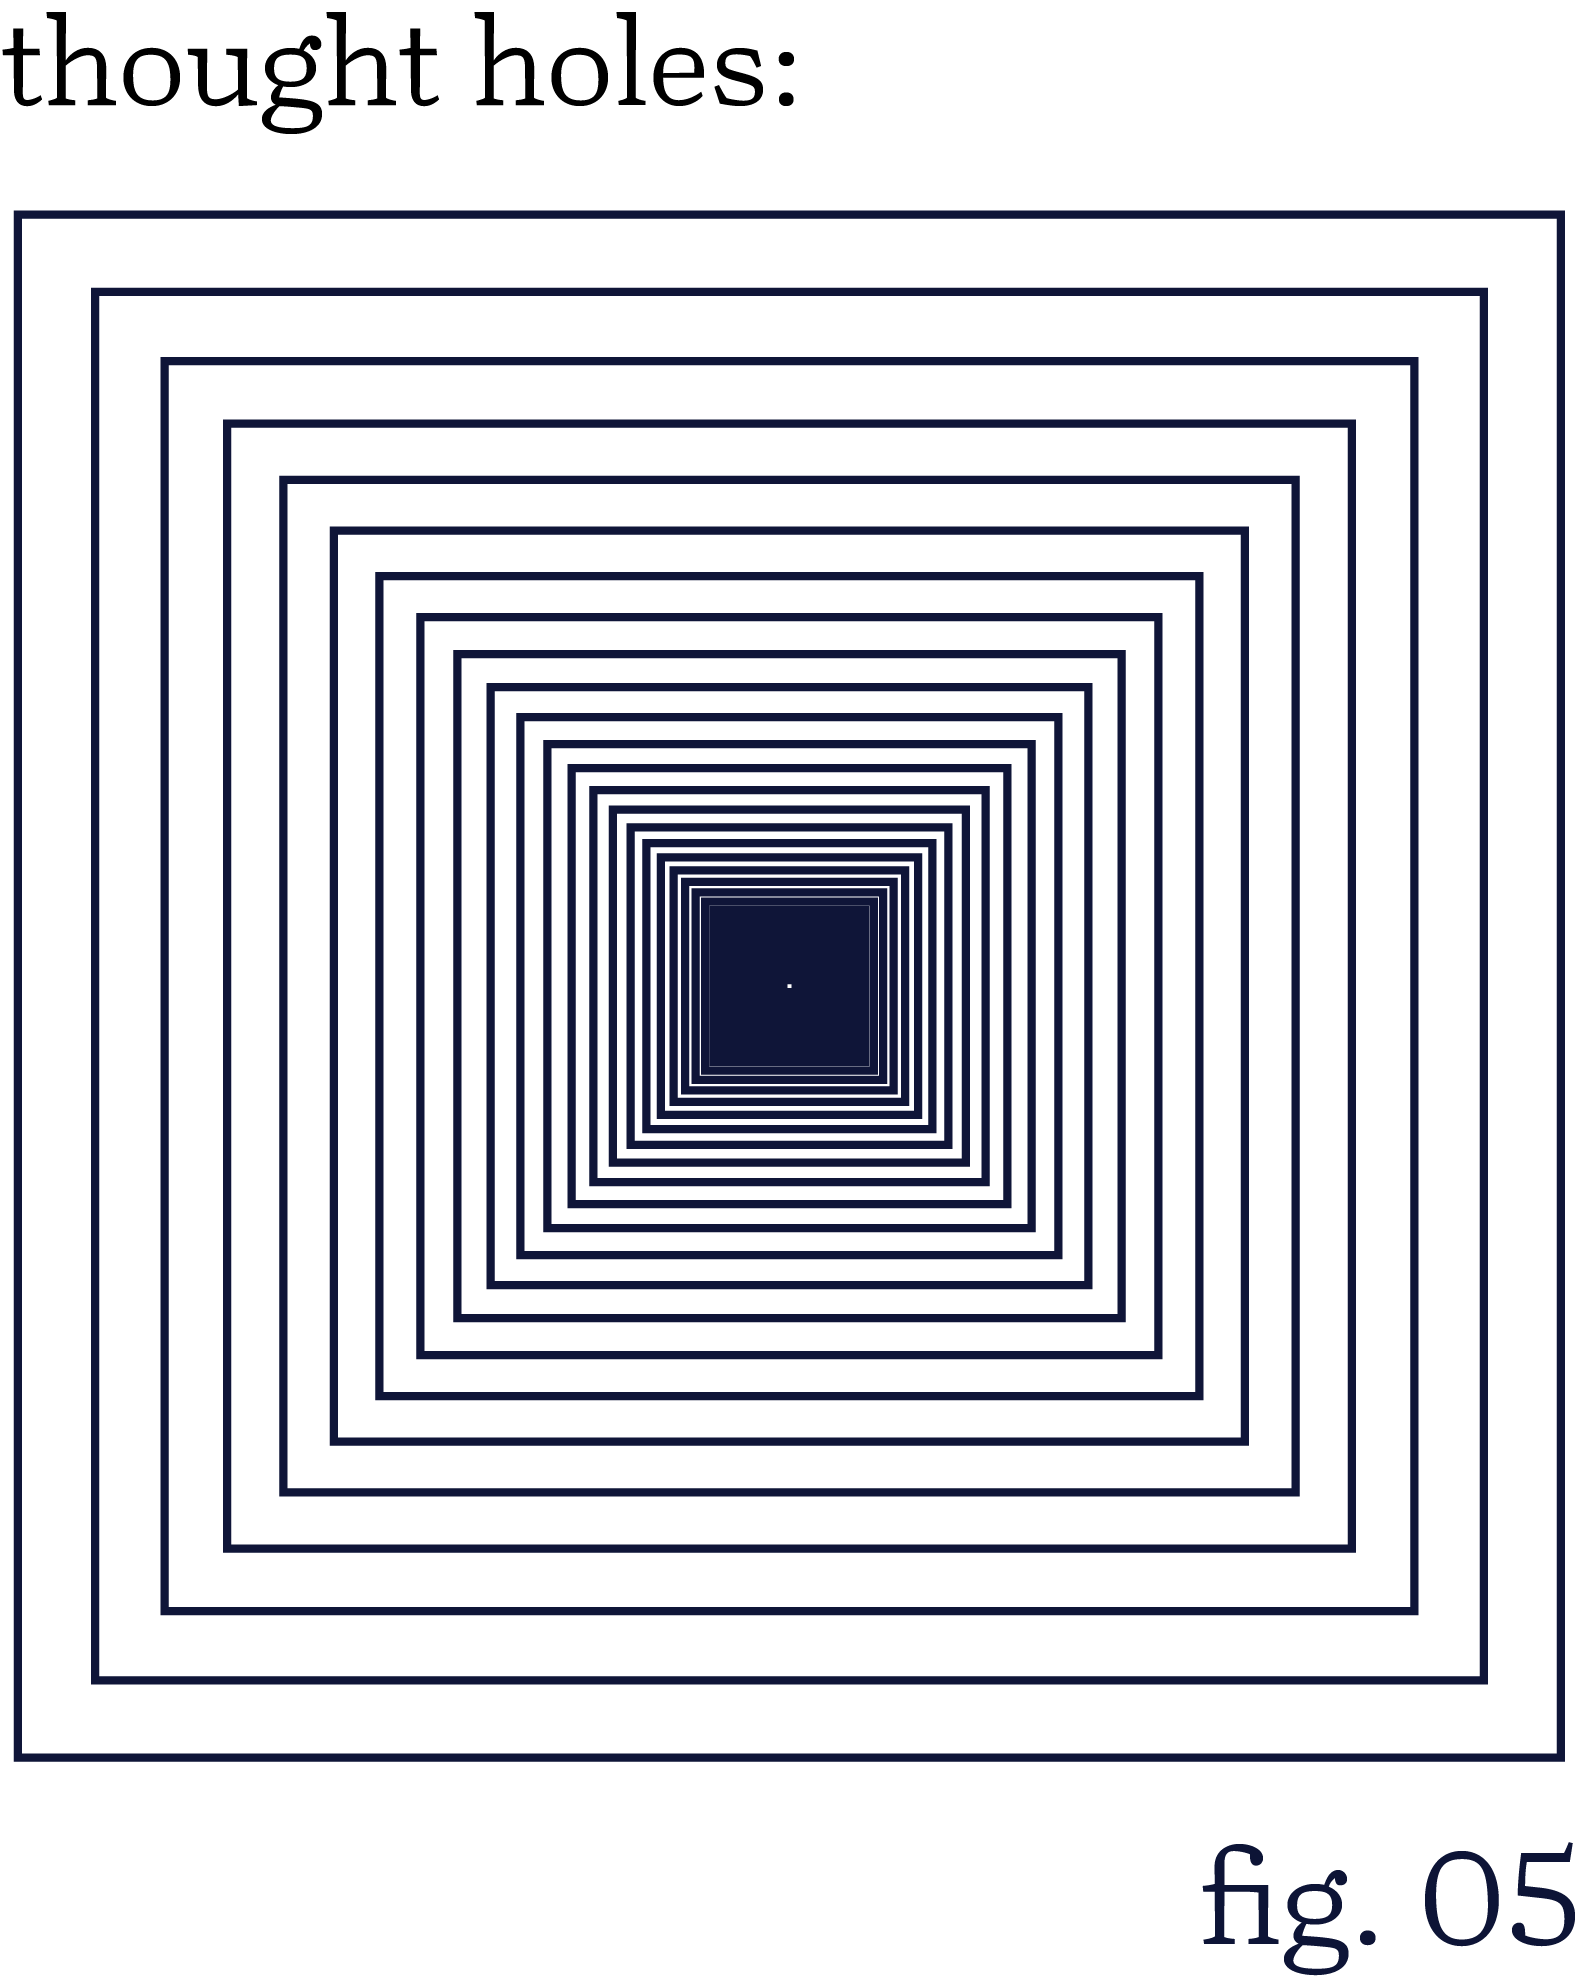
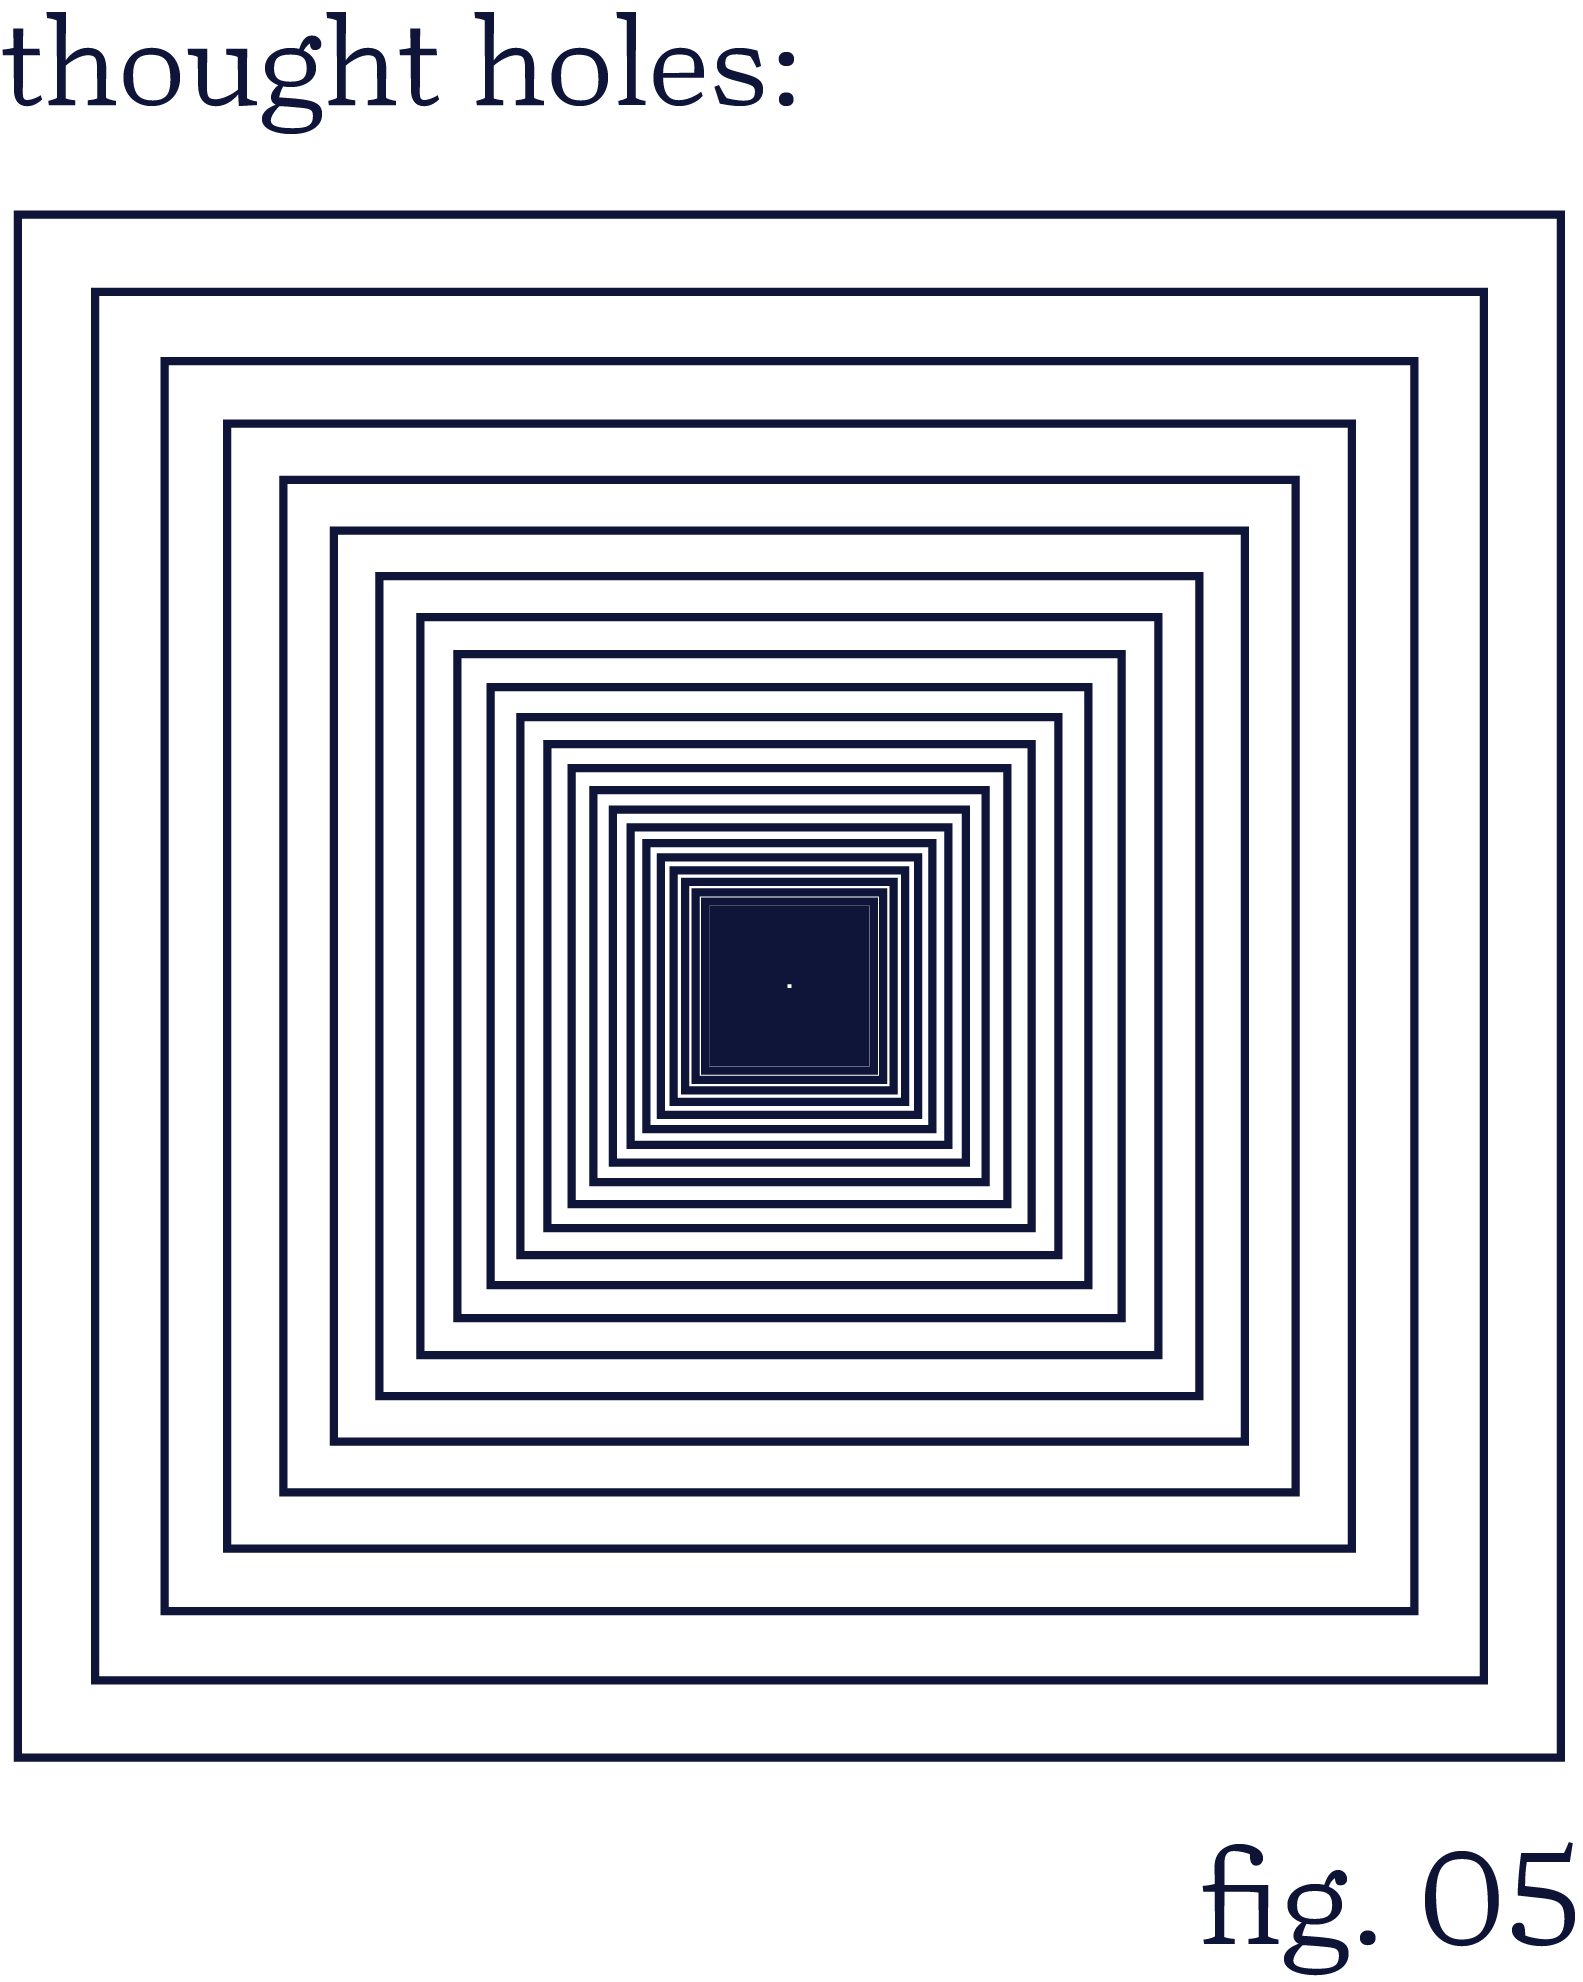
a

Changed region(s): [[0.0, 0.0, 0.4953, 0.0616]]

diff --git a/diagram01.html b/diagram01.html
@@ -42,7 +42,7 @@ function MM_swapImage() { //v3.0
 <body >
 	
 <div class="container">
-	  <a href="diagram01.html" > <img src="diagram01.png" width="600" class="hover" > </a>
+	  <img src="diagram01.png" width="400" > 
      
   </div>
  <p class="diagramcaption"> This idea is inspired by the genius that is <em>thediagram.com</em>. It is the first of many. It is a box. </p> <p class="diagramcaption"> I quite like boxes and they seem  as good a place as any to start this catalogue. Diagrams are particularly beautiful in a utilitarian sort of way. Good ones are graphically austere, yet informationally dense without becoming obtuse or over complicated. Their simplicity, variety, and ease of understanding impart sophistication and elegance.  </p> <p class="diagramcaption">I am not sure if <em>fig. 01</em>  lives up to that glowing description. And yet, twelve imperfect one dimensional lines come together to convey three dimensional information in a miracle that is nothing short of magical. It is honest, I think. It is empty and it does not have anything to hide.    </p> 

diff --git a/diagram03.html b/diagram03.html
@@ -42,7 +42,7 @@ function MM_swapImage() { //v3.0
 <body >
 	
 <div class="container">
-	  <a href="diagram03.html" > <img src="diagram03.png" width="600" class="hover" > </a>
+	  <img src="diagram03.png" width="400"  > 
      
   </div>
  <p class="diagramcaption"> The wireframe box has been deformed. Sat on, or crushed, or tested one too many times. Is malleability  a necessary weakness of honesty? I do not think so. Its irregularity may have obscured a previous elegance and clarity, but it has uncovered something new. So all things must go. </p>  

diff --git a/diagram02.html b/diagram02.html
@@ -42,7 +42,7 @@ function MM_swapImage() { //v3.0
 <body >
 	
 <div class="container">
-	  <a href="diagram02.html" > <img src="diagram02.png" width="600" class="hover" > </a>
+	   <img src="diagram02.png" width="400" >
      
   </div>
  <p class="diagramcaption"> Another box, it seems. </p> <p class="diagramcaption"> This one is brown, and not nearly as revealing as the other. It is a cardboard box: generic and banal. </p> 

diff --git a/diagram04.html b/diagram04.html
@@ -42,7 +42,7 @@ function MM_swapImage() { //v3.0
 <body >
 	
 <div class="container">
-	  <a href="diagram04.html" > <img src="diagram04.png" width="600" class="hover" > </a>
+	   <img src="diagram04.png" width="400" > 
      
   </div>
  <p class="diagramcaption"> The anatomy of an arrow. </p> <p class="diagramcaption"> </p>

diff --git a/diagram05.html b/diagram05.html
@@ -42,7 +42,7 @@ function MM_swapImage() { //v3.0
 <body >
 	
 <div class="container">
-	  <a href="diagram05.html" > <img src="diagram05.png" width="600" class="hover" > </a>
+	   <img src="diagram05.png" width="400" > 
      
   </div>
  <p class="diagramcaption"> Ad infinitum, ad infinitum, etc.</p> 
